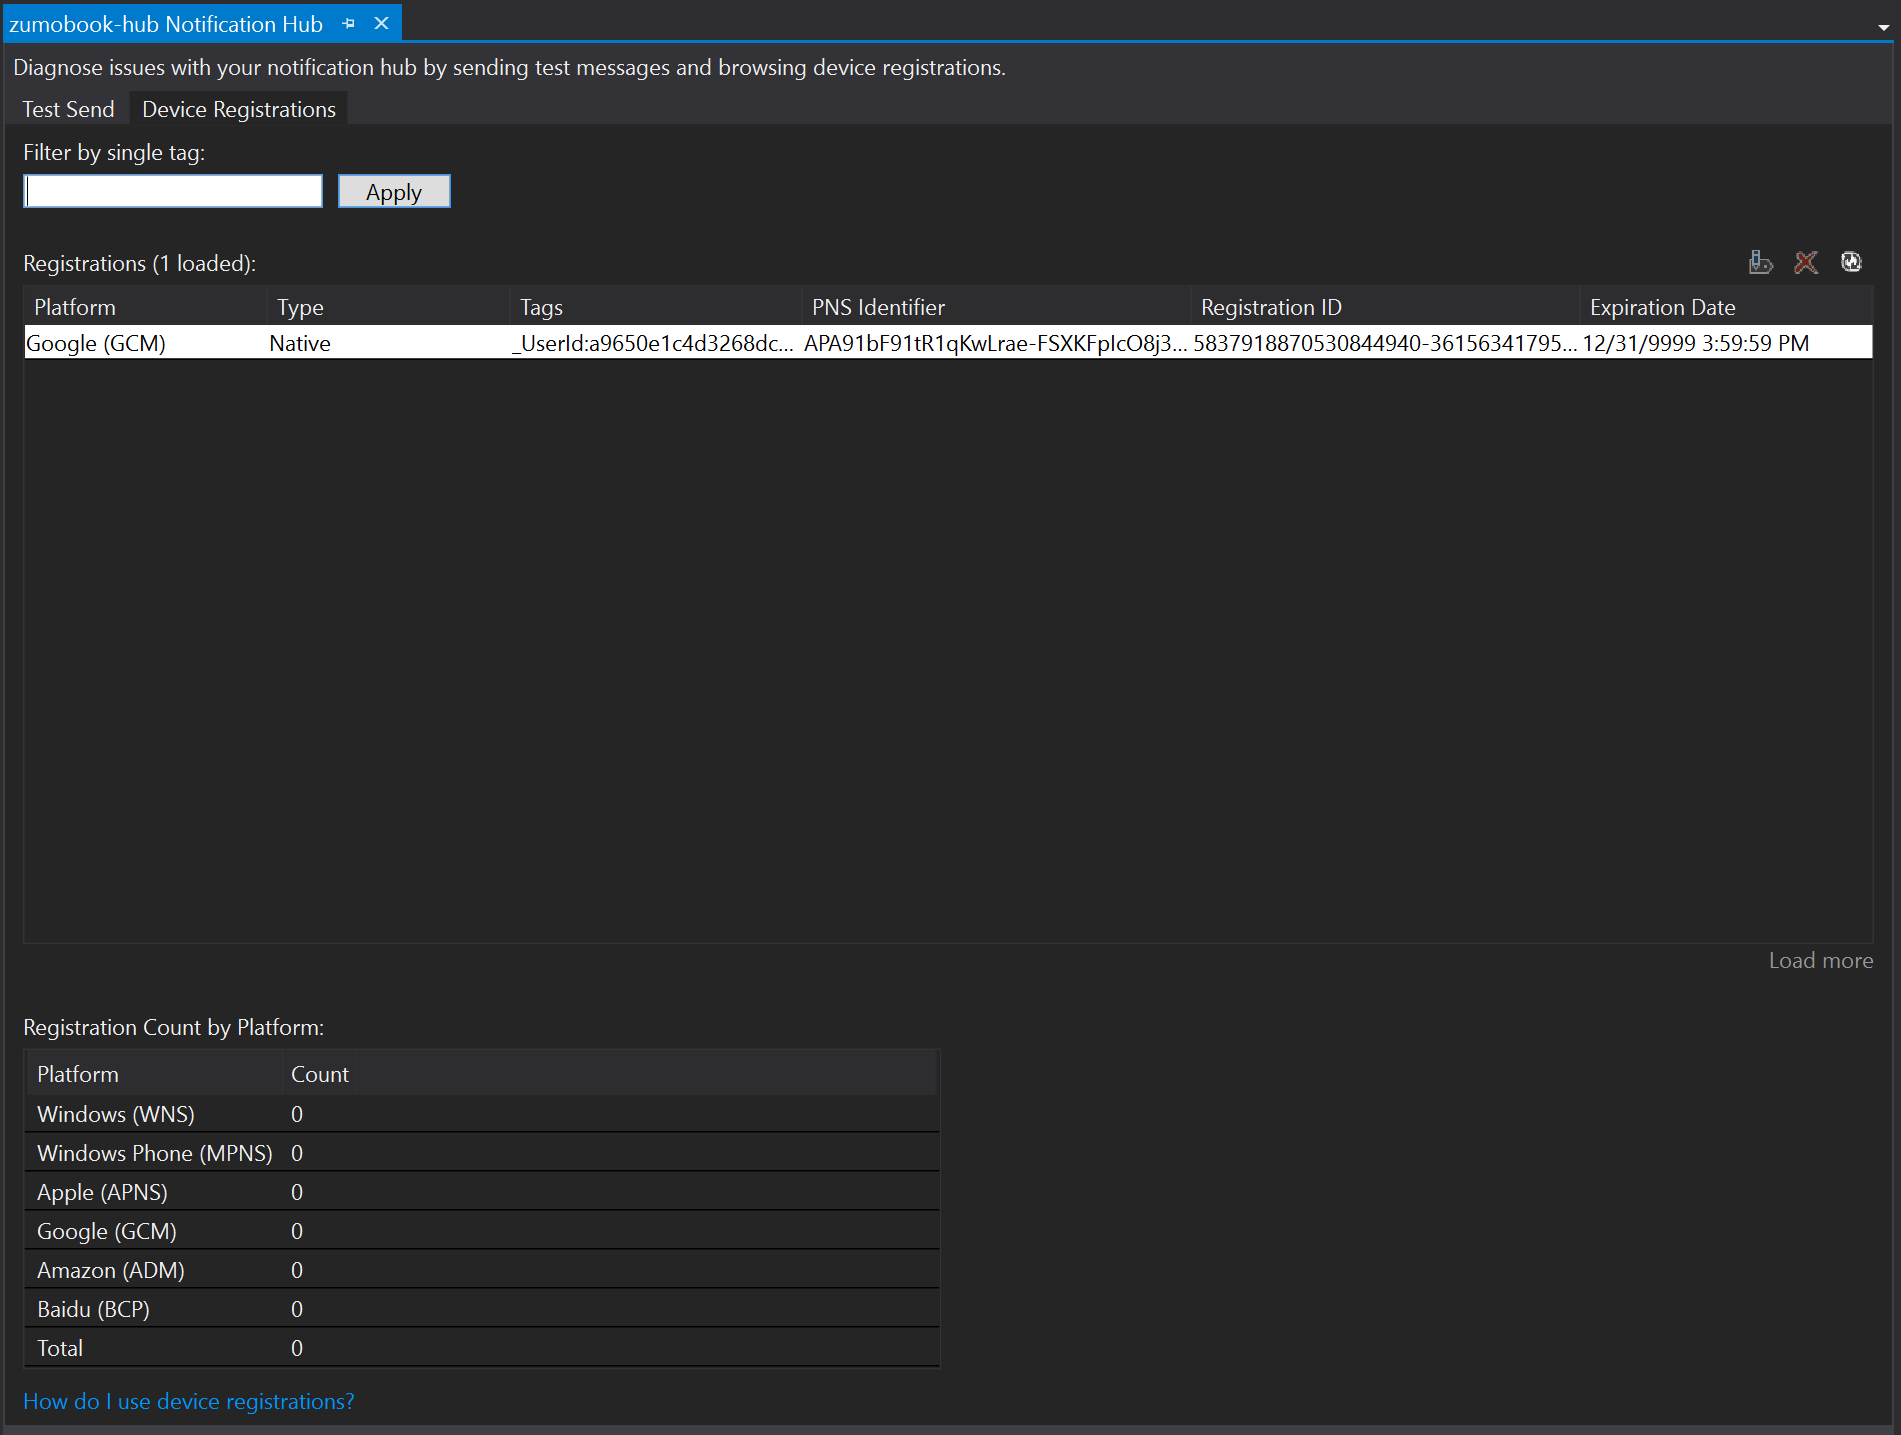
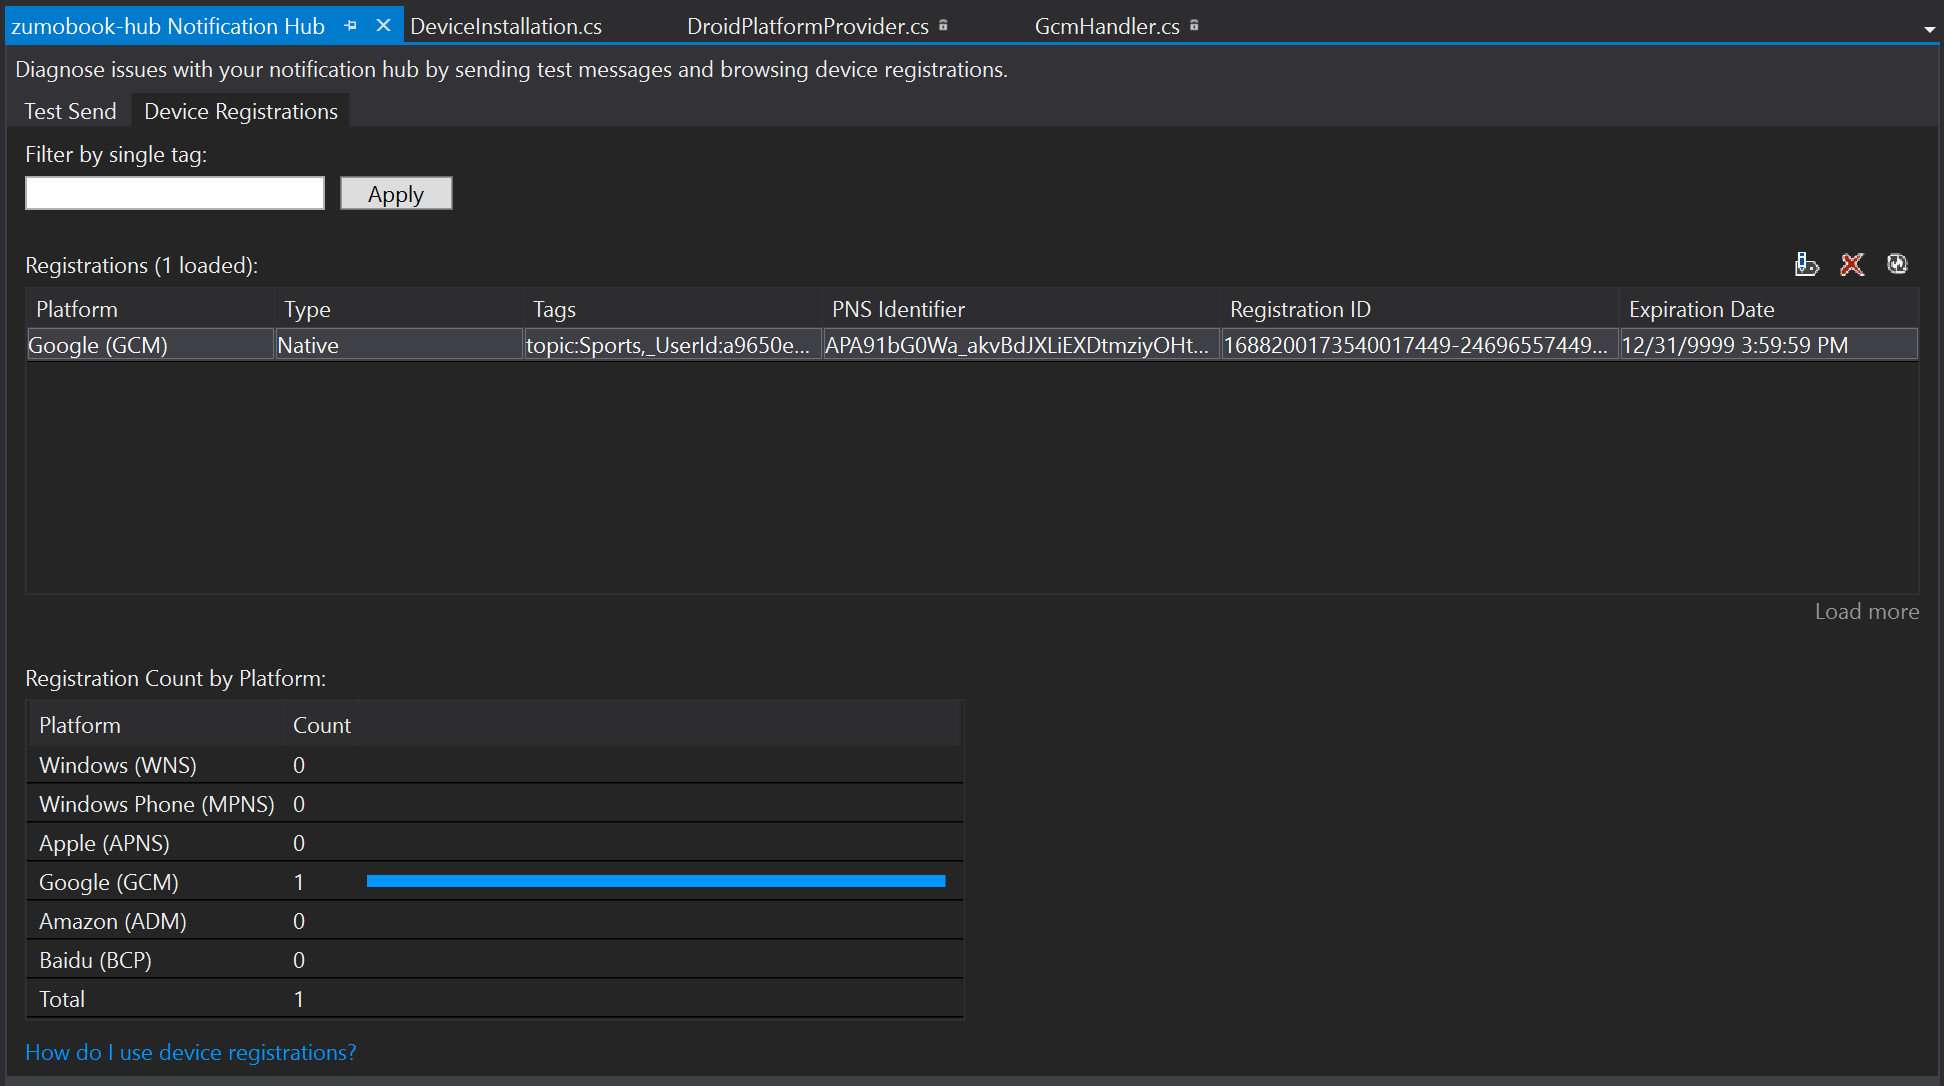
Android complete

diff --git a/Chapter5/TaskList/TaskList.Droid/Services/GcmHandler.cs b/Chapter5/TaskList/TaskList.Droid/Services/GcmHandler.cs
@@ -1,5 +1,7 @@
 using Android.App;
 using Android.Content;
+using Android.Media;
+using Android.Support.V7.App;
 using Android.Util;
 using Gcm.Client;
 
@@ -35,17 +37,22 @@ namespace TaskList.Droid.Services
         {
             Log.Info("GcmService", $"Message {intent.ToString()}");
 
-            var message = intent.DataString;
-            var pendingIntent = PendingIntent.GetActivity(context, 0, intent, PendingIntentFlags.OneShot);
+            var message = intent.Extras.GetString("message");
 
-            var notificationBuilder = new Notification.Builder(context)
-                .SetSmallIcon(Resource.Drawable.notification_template_icon_bg)
-                .SetContentTitle("NH Message")
+            var notificationManager = GetSystemService(Context.NotificationService) as NotificationManager;
+            var uiIntent = new Intent(context, typeof(MainActivity));
+            NotificationCompat.Builder builder = new NotificationCompat.Builder(context);
+
+            var notification = builder.SetContentIntent(PendingIntent.GetActivity(context, 0, uiIntent, 0))
+                .SetSmallIcon(Android.Resource.Drawable.SymDefAppIcon)
+                .SetTicker("TaskList")
+                .SetContentTitle("TaskList")
                 .SetContentText(message)
+                .SetSound(RingtoneManager.GetDefaultUri(RingtoneType.Notification))
                 .SetAutoCancel(true)
-                .SetContentIntent(pendingIntent);
-            var notificationManager = (NotificationManager)GetSystemService(Context.NotificationService);
-            notificationManager.Notify(0, notificationBuilder.Build());
+                .Build();
+
+            notificationManager.Notify(1, notification);
         }
 
         protected override void OnError(Context context, string errorId)

diff --git a/Chapter5/TaskList/TaskList.Droid/Services/DroidPlatformProvider.cs b/Chapter5/TaskList/TaskList.Droid/Services/DroidPlatformProvider.cs
@@ -73,10 +73,28 @@ namespace TaskList.Droid.Services
                 try
                 {
                     var registrationId = GcmClient.GetRegistrationId(RootView);
-                    var push = client.GetPush();
-                    await push.RegisterAsync(registrationId);
+                    //var push = client.GetPush();
+                    //await push.RegisterAsync(registrationId);
 
-                    Log.Info("DroidPlatformProvider", $"Registered with NH");
+                    var installation = new DeviceInstallation
+                    {
+                        InstallationId = client.InstallationId,
+                        Platform = "gcm",
+                        PushChannel = registrationId
+                    };
+                    // Set up tags to request
+                    installation.Tags.Add("topic:Sports");
+                    // Set up templates to request
+                    PushTemplate genericTemplate = new PushTemplate
+                    {
+                        Body = "{\"data\":{\"message\":\"$(messageParam)\"}}"
+                    };
+                    // Register with NH
+                    var response = await client.InvokeApiAsync<DeviceInstallation, DeviceInstallation>(
+                        $"/push/installations/{client.InstallationId}",
+                        installation,
+                        HttpMethod.Put,
+                        new Dictionary<string, string>());
                 }
                 catch (Exception ex)
                 {

diff --git a/Chapter5/TaskList/TaskList/Abstractions/DeviceInstallation.cs b/Chapter5/TaskList/TaskList/Abstractions/DeviceInstallation.cs
@@ -1,0 +1,51 @@
+using System;
+using System.Collections.Generic;
+using System.Linq;
+using System.Text;
+using System.Threading.Tasks;
+using Newtonsoft.Json;
+
+namespace TaskList.Abstractions
+{
+    public class DeviceInstallation
+    {
+        public DeviceInstallation()
+        {
+            Tags = new List<string>();
+            Templates = new Dictionary<string, PushTemplate>();
+        }
+
+        [JsonProperty(PropertyName = "installationId")]
+        public string InstallationId { get; set; }
+
+        [JsonProperty(PropertyName = "platform")]
+        public string Platform { get; set; }
+
+        [JsonProperty(PropertyName = "pushChannel")]
+        public string PushChannel { get; set; }
+
+        [JsonProperty(PropertyName = "tags")]
+        public List<string> Tags { get; set; }
+
+        [JsonProperty(PropertyName = "templates")]
+        public Dictionary<string, PushTemplate> Templates { get; set; }
+    }
+
+    public class PushTemplate
+    {
+        public PushTemplate()
+        {
+            Tags = new List<string>();
+            Headers = new Dictionary<string, string>();
+        }
+
+        [JsonProperty(PropertyName = "body")]
+        public string Body { get; set; }
+
+        [JsonProperty(PropertyName = "tags")]
+        public List<string> Tags { get; set; }
+
+        [JsonProperty(PropertyName = "headers")]
+        public Dictionary<string, string> Headers { get; set; }
+    }
+}

diff --git a/docs/chapter5/android.md b/docs/chapter5/android.md
@@ -346,11 +346,28 @@ in the `Services\DroidPlatformProvider.cs` file:
             try
             {
                 var registrationId = GcmClient.GetRegistrationId(RootView);
-                var push = client.GetPush();
-                await push.RegisterAsync(registrationId)
+                //var push = client.GetPush();
+                //await push.RegisterAsync(registrationId);
 
-                // Validate that the response worked!
-                Log.Info("DroidPlatformProvider", $"Registered with NH");
+                var installation = new DeviceInstallation
+                {
+                    InstallationId = client.InstallationId,
+                    Platform = "gcm",
+                    PushChannel = registrationId
+                };
+                // Set up tags to request
+                installation.Tags.Add("topic:Sports");
+                // Set up templates to request
+                PushTemplate genericTemplate = new PushTemplate
+                {
+                    Body = "{\"data\":{\"message\":\"$(messageParam)\"}}"
+                };
+                // Register with NH
+                var response = await client.InvokeApiAsync<DeviceInstallation, DeviceInstallation>(
+                    $"/push/installations/{client.InstallationId}",
+                    installation,
+                    HttpMethod.Put,
+                    new Dictionary<string, string>());
             }
             catch (Exception ex)
             {
@@ -405,10 +422,14 @@ can click on the **Device Registrations** tab:
 
 ![][img7]
 
-We can see the registration of our test emulator device.  We can also send to a specific device using the test
-send facility.  Click over to the **Test Send** facility.  Since we only have one device, we can use broadcast.
-Each installation will also be given a tag: `$InstallationId:{guid}`, where {guid} is the installation ID.  Select
-**Google (GCM)** -> **Default** to send a message to GCM.  The body will be filled in for you.
+We can see the registration of our test emulator device.  Note that our request for the `topic:Sports` tag has
+also been honored.  If we did not configure that tag within the Push blade in the portal, that would not have
+been added to our registration.  
+
+We can also send to a specific device using the test send facility.  Click over to the **Test Send** facility.  Since 
+we only have one device, we can use broadcast. Each installation will also be given a tag: `$InstallationId:{guid}`, 
+where {guid} is the installation ID.  Select **Google (GCM)** -> **Default** to send a message to GCM.  The body 
+will be filled in for you.
 
 Since we have already set a breakpoint at the `OnMessage()` method in `GcmService.cs`, our app is running and we
 have entered the app and logged in, click **Send**.  The breakpoint should be triggered within a reasonable amount
@@ -427,7 +448,37 @@ you want.  For example, you may want to silently pull a specific record from the
 SQLite offline cache when a push arrives, or you may want to pop up a message that opens the mobile app.
 
 In this example, we are going to show the message that comes in the `message` field of the data block.  There
-are more examples in the [recipes section](./recipes.md).
+are more examples in the [recipes section](./recipes.md).  The `OnMessage()` method in `GcmService.cs` is triggered 
+on a push.  A simple notification looks like this:
+
+```csharp
+    protected override void OnMessage(Context context, Intent intent)
+    {
+        Log.Info("GcmService", $"Message {intent.ToString()}");
+
+        var message = intent.Extras.GetString("message");
+
+        var notificationManager = GetSystemService(Context.NotificationService) as NotificationManager;
+        var uiIntent = new Intent(context, typeof(MainActivity));
+        NotificationCompat.Builder builder = new NotificationCompat.Builder(context);
+
+        var notification = builder.SetContentIntent(PendingIntent.GetActivity(context, 0, uiIntent, 0))
+            .SetSmallIcon(Android.Resource.Drawable.SymDefAppIcon)
+            .SetTicker("TaskList")
+            .SetContentTitle("TaskList")
+            .SetContentText(message)
+            .SetSound(RingtoneManager.GetDefaultUri(RingtoneType.Notification))
+            .SetAutoCancel(true)
+            .Build();
+
+        notificationManager.Notify(1, notification);
+    }
+```
+
+The major thing to note here is how we get the contents of the message.  The data block from the Notification
+Hub is received by the Intent into the Extras property.  If you have other properties in that block, you can
+retrieve them the same way.  The message field is standard, but you can pass other things.  An example would
+be to pass the table name and ID of an inserted record.
 
 <!-- Images -->
 [img1]: img/push-fcm-1.PNG

diff --git a/docs/chapter5/concepts.md b/docs/chapter5/concepts.md
@@ -215,15 +215,114 @@ set to the registration ID of the platform.  The platform is set to the appropri
 you are using - gcm, apns or wns.   You can also add tags and template into this installation object.  Check
 out the [recipes section][2] for details on requesting tags and templates.
 
-This is all handled for you using the Azure Mobile Apps SDK, as we will see later.  The simple form of registration
-is:
+There is a simple class for implementing an installation, which I place in `Abstractions\DeviceInstallation.cs`
+within the shared project:
 
-```
-var push = client.GetPush();
-await push.RegisterAsync(registrationId);
+```csharp
+using System;
+using System.Collections.Generic;
+using System.Linq;
+using System.Text;
+using System.Threading.Tasks;
+using Newtonsoft.Json;
+
+namespace TaskList.Abstractions
+{
+    public class DeviceInstallation
+    {
+        public DeviceInstallation()
+        {
+            Tags = new List<string>();
+            Templates = new Dictionary<string, PushTemplate>();
+        }
+
+        [JsonProperty(PropertyName = "installationId")]
+        public string InstallationId { get; set; }
+
+        [JsonProperty(PropertyName = "platform")]
+        public string Platform { get; set; }
+
+        [JsonProperty(PropertyName = "pushChannel")]
+        public string PushChannel { get; set; }
+
+        [JsonProperty(PropertyName = "tags")]
+        public List<string> Tags { get; set; }
+
+        [JsonProperty(PropertyName = "templates")]
+        public Dictionary<string, PushTemplate> Templates { get; set; }
+    }
+
+    public class PushTemplate
+    {
+        public PushTemplate()
+        {
+            Tags = new List<string>();
+            Headers = new Dictionary<string, string>();
+        }
+
+        [JsonProperty(PropertyName = "body")]
+        public string Body { get; set; }
+
+        [JsonProperty(PropertyName = "tags")]
+        public List<string> Tags { get; set; }
+
+        [JsonProperty(PropertyName = "headers")]
+        public Dictionary<string, string> Headers { get; set; }
+    }
+}
 ```
 
-However, there are other methods and overrides as well.
+The `Installation` object is also available in the Notification Hubs SDK, but I find bringing in the entire 
+Notification Hubs SDK just for this is a little overkill.  You can create a suitable installation and 
+register with the `InvokeApiAsync<T,U>()` method:
+
+```csharp
+    public async Task RegisterForPushNotifications(MobileServiceClient client)
+    {
+        if (GcmClient.IsRegistered(RootView))
+        {
+            try
+            {
+                var registrationId = GcmClient.GetRegistrationId(RootView);
+                //var push = client.GetPush();
+                //await push.RegisterAsync(registrationId);
+
+                var installation = new DeviceInstallation
+                {
+                    InstallationId = client.InstallationId,
+                    Platform = "gcm",
+                    PushChannel = registrationId
+                };
+                // Set up tags to request
+                installation.Tags.Add("topic:Sports");
+                // Set up templates to request
+                PushTemplate genericTemplate = new PushTemplate
+                {
+                    Body = "{\"data\":{\"message\":\"$(messageParam)\"}}"
+                };
+                // Register with NH
+                var response = await client.InvokeApiAsync<DeviceInstallation, DeviceInstallation>(
+                    $"/push/installations/{client.InstallationId}",
+                    installation,
+                    HttpMethod.Put,
+                    new Dictionary<string, string>());
+            }
+            catch (Exception ex)
+            {
+                Log.Error("DroidPlatformProvider", $"Could not register with NH: {ex.Message}");
+            }
+        }
+        else
+        {
+            Log.Error("DroidPlatformProvider", $"Not registered with GCM");
+        }
+    }
+```
+
+This is normally placed within the platform-specific provider since the details on how to get the registration
+ID and platform are different.  This version is for the Android edition as an example.  Using `InvokeApiAsync()` 
+instead of relying on the in-built Azure Mobile Apps push registration methods gives you more control over the 
+process of registration.
 
 ## Next Steps
 
